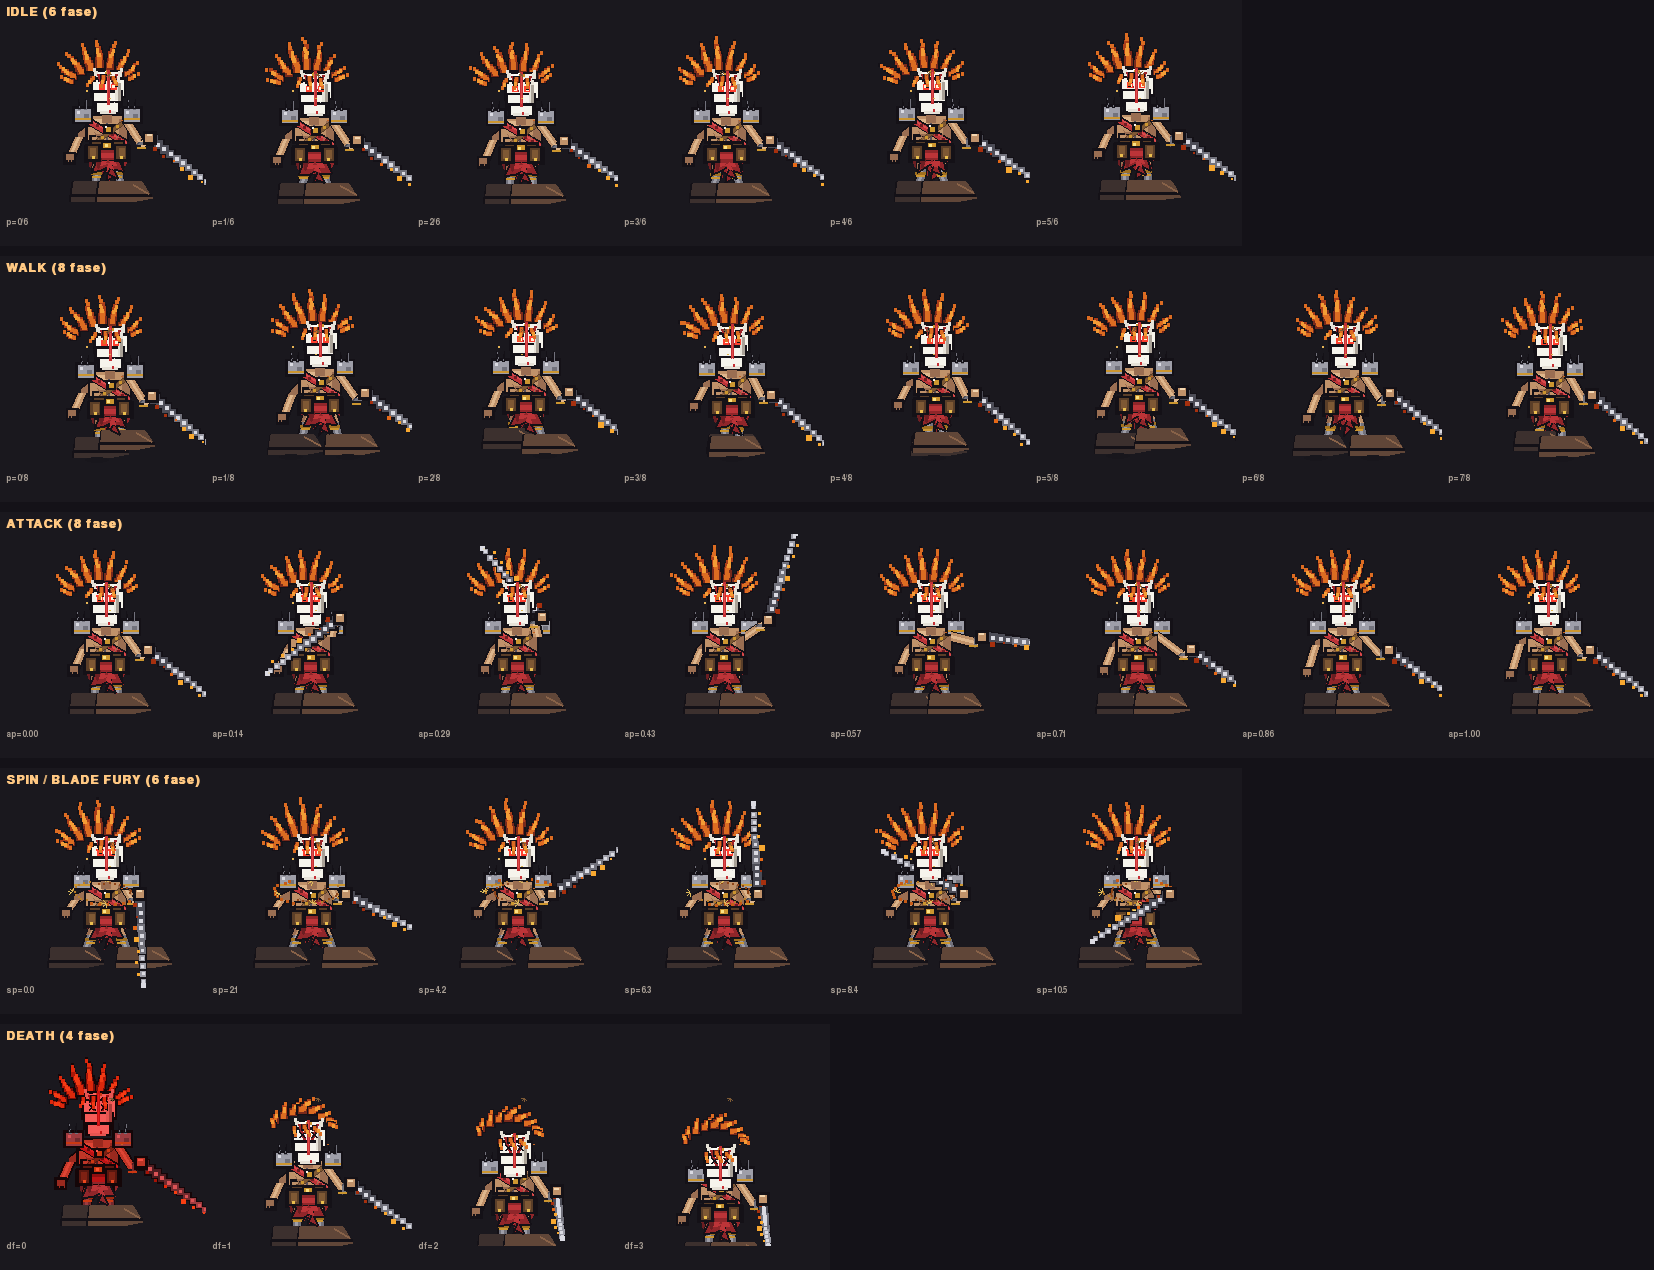
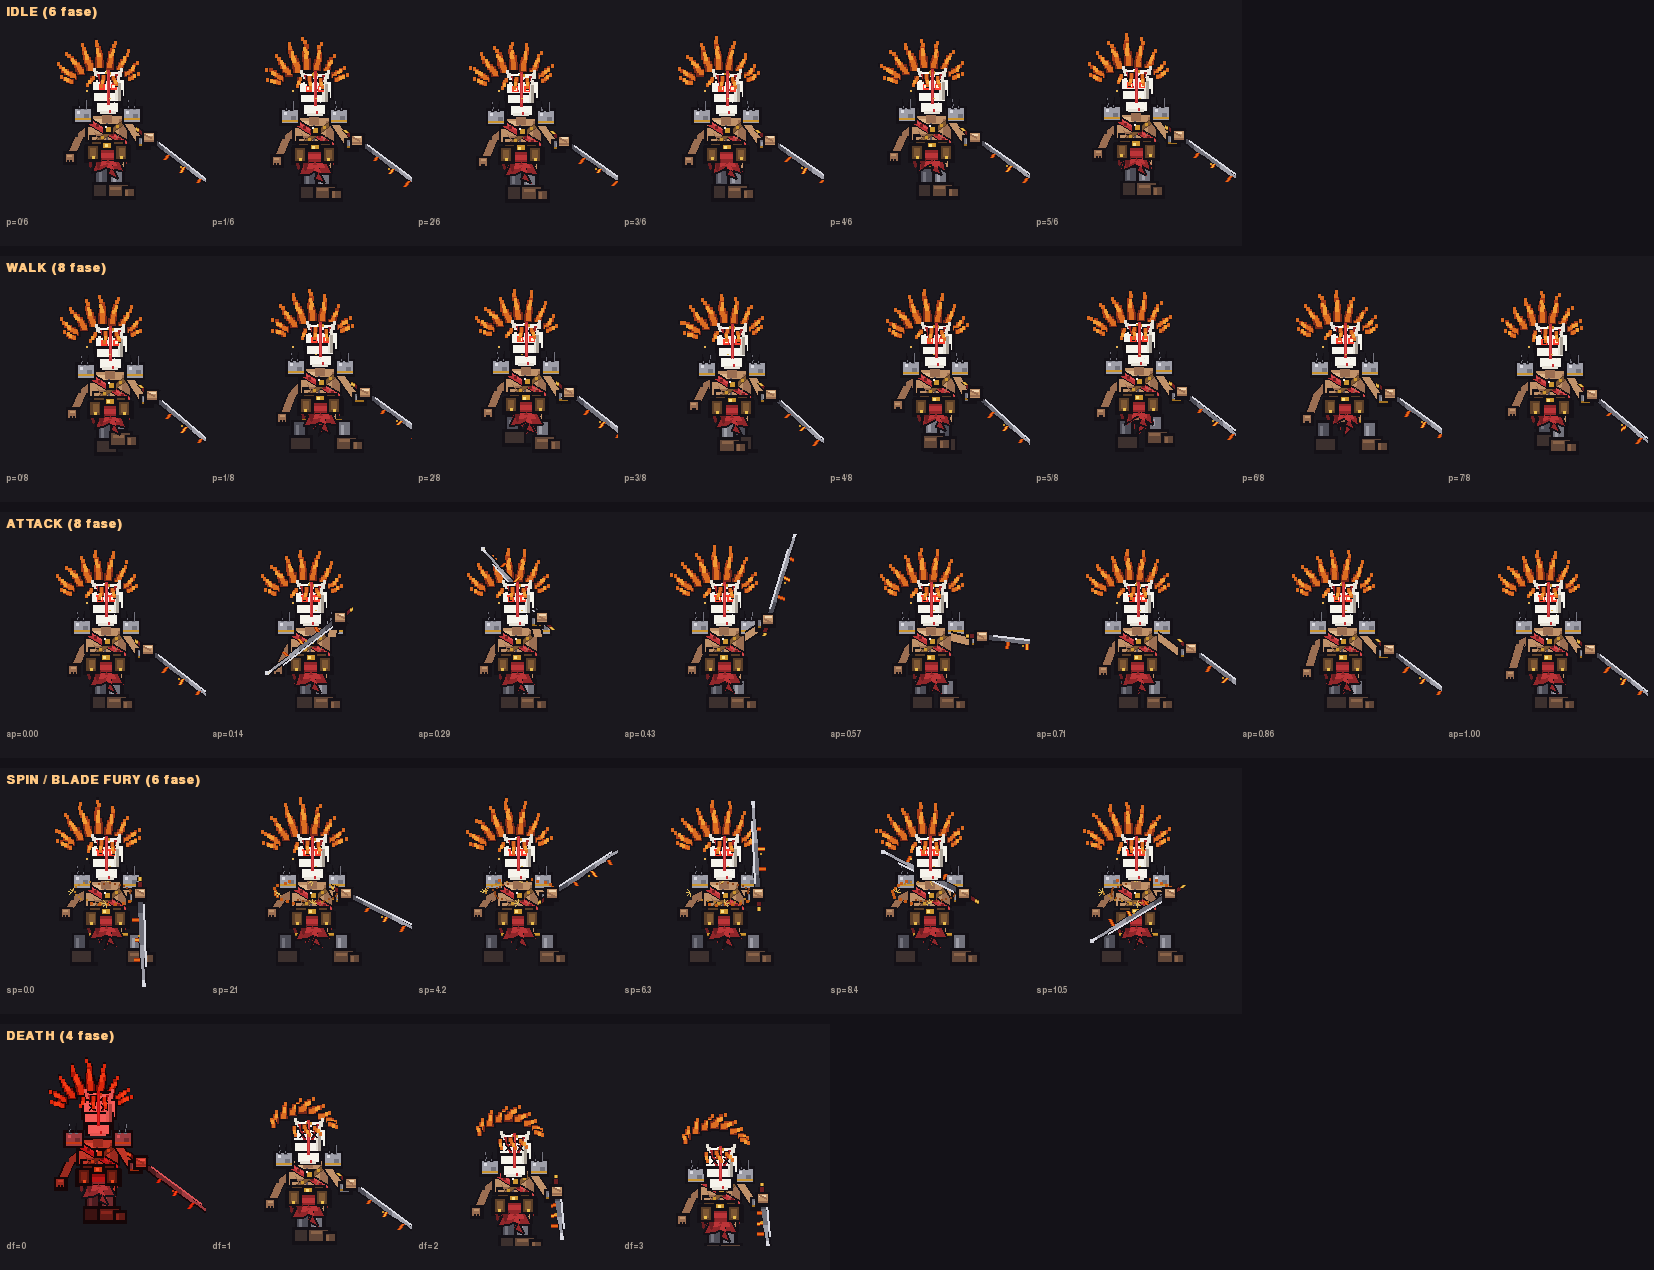
Grimjaw V1: kaki rect grid, pedang segmen + garda rotasi, render bersih

diff --git a/heroes/grimjaw_v1.py b/heroes/grimjaw_v1.py
@@ -33,6 +33,16 @@ Yang TIDAK berubah (identitas & gameplay Grimjaw):
 Gameplay, kontrol sentuh, generasi dunia, dan damage tetap milik Mystic
 Arena; modul ini hanya memiliki pose visual Grimjaw dan efek canvas
 fallback-nya. 100% PROSEDURAL - tidak ada PNG/JPG/GIF/sprite-sheet.
+
+Catatan pass kebersihan (review pemain):
+  * KAKI digambar sebagai rect grid (pola Kaizen): paha + greave baja +
+    boot dengan sol gelap - bukan lagi garis tebal/poligon bot raksasa.
+  * PEDANG digambar sebagai bilah segmen garis (pola katana Kaizen)
+    dengan garda emas tegak-lurus sumbu bilah (ikut rotasi), hilt wrap
+    merah + pommel emas, dan kepalan yang MENUTUP pangkal bilah sehingga
+    bilah selalu terlihat menyatu dengan tangan.
+  * Detail sub-piksel (garis 0.6px, titik api melayang) dibuang supaya
+    hasil downscale HD bersih dan mulus.
 """
 
 import math
@@ -916,19 +926,18 @@ def install(legacy_cls):
 
         @staticmethod
         def _draw_pixel_rear_arm(R, RO, line, elbow, hand, detail=False):
-            """Lengan belakang (tinju): bahu -> siku -> kepalan."""
+            """Lengan belakang (tinju): 2 pass bersih + kepalan."""
             P = GrimjawV1Renderer
             sh = (19.5, 21.0)
-            line(sh, elbow, P.C_OUTLINE, 5.0)
-            line(sh, elbow, P.C_SKIN_DARK, 3.6)
-            line(elbow, hand, P.C_OUTLINE, 4.6)
-            line(elbow, hand, P.C_SKIN_MID, 3.2)
-            line(elbow, hand, P.C_SKIN_LIGHT, 1.0)
-            RO(hand[0] - 1.5, hand[1] - 1.5, 3, 3, P.C_SKIN_DARK)
+            line(sh, elbow, P.C_OUTLINE, 4.8)
+            line(sh, elbow, P.C_SKIN_DARK, 3.4)
+            line(elbow, hand, P.C_OUTLINE, 4.4)
+            line(elbow, hand, P.C_SKIN_DARK, 3.0)
+            RO(hand[0] - 1.6, hand[1] - 1.6, 3.2, 3.2, P.C_SKIN_DARK)
+            R(hand[0] - 1.0, hand[1] - 1.2, 2.0, 0.8, P.C_SKIN_MID)
             if detail:
-                for kn in (-1, 0, 1):
-                    R(hand[0] + kn - 0.3, hand[1] + 0.8, 0.6, 0.9,
-                      P.C_OUTLINE)
+                for kn in (-0.9, 0.1):
+                    R(hand[0] + kn, hand[1] + 0.7, 0.7, 0.9, P.C_OUTLINE)
 
         @staticmethod
         def _draw_pixel_cloth_teeth(surface, point, spine_src, top_src,
@@ -984,48 +993,43 @@ def install(legacy_cls):
         @staticmethod
         def _draw_pixel_legs(surface, R, RO, point, line, front_step,
                              rear_step, front_lift, rear_lift, walking):
-            """Kaki: foot solver (menapak / terangkat), stance mekar."""
+            """Kaki: rect grid bersih (pola Kaizen) - paha, greave baja,
+            boot kokoh dengan sol gelap.  Tanpa garis spageti/poligon
+            raksasa supaya tetap tajam setelah downscale HD."""
             P = GrimjawV1Renderer
             for side, step, lift, dark in (
                     (-1, rear_step, rear_lift, True),
                     (1, front_step, front_lift, False)):
-                hip = (24.0 + side * 3.5, 32.5)
-                knee = (24.0 + side * 4.0 + step * 0.25, 38.5 - lift * 0.35)
-                ankle = (24.0 + side * 4.5 + step * 0.40, 43.5 - lift * 0.40)
-                fx = 24.0 + side * 5.0 + step
-                thigh = P.C_SKIN_DARK if dark else P.C_SKIN_MID
-                hi = P.C_SKIN_MID if dark else P.C_SKIN_LIGHT
-                line(hip, knee, P.C_OUTLINE, 4.6)
-                line(hip, knee, thigh, 3.4)
-                line(hip, knee, hi, 1.0)
-                line(knee, ankle, P.C_OUTLINE, 4.2)
-                line(knee, ankle, P.C_METAL_MID, 3.0)
-                line(knee, ankle, P.C_METAL_LIGHT, 1.0)
-                band = (knee[0], knee[1] + 1.5)
-                R(band[0] - 2.2, band[1] - 0.6, 4.4, 1.2, P.C_GOLD_DARK)
-                R(band[0] - 1.8, band[1] + 0.8, 3.6, 0.8, P.C_GOLD_MID)
+                bx = 22.0 if side < 0 else 27.5
+                off = int(round(step))
+                up = int(round(lift))
+                skin = P.C_SKIN_DARK if dark else P.C_SKIN_MID
+                # Paha: menempel di hip (tidak ikut melangkah).
+                RO(bx - 2.6, 32.5, 5.2, 5.5, skin)
+                R(bx - 1.8, 33.4, 1.5, 3.4,
+                  P.C_SKIN_MID if dark else P.C_SKIN_LIGHT)
+                # Lutut: band emas.
+                kx = bx - 2.0 + off * 0.5
+                R(kx, 37.3, 4.0, 1.3, P.C_GOLD_DARK)
+                R(kx + 0.6, 37.4, 2.8, 0.8, P.C_GOLD_MID)
+                # Greave baja (menyusut saat kaki terangkat = lutut menekuk).
+                gx0 = bx - 2.2 + off
+                gy0 = 38.4 - up * 0.9
+                RO(gx0, gy0, 4.4, 6.2 - up * 0.7,
+                   P.C_METAL_DARK if dark else P.C_METAL_MID)
+                R(gx0 + 0.8, gy0 + 1.0, 1.2, 3.8 - up * 0.5,
+                  P.C_METAL_MID if dark else P.C_METAL_LIGHT)
+                # Boot: badan + toe depan + sol gelap tebal.
+                fx0 = bx - 3.0 + off
+                fy0 = 44.4 - up
                 boot = P.C_BOOT_DARK if dark else P.C_BOOT_MID
-                bpts = [(fx - 8, 43 - lift), (fx + 8, 43 - lift),
-                        (fx + 10, 46 - lift), (fx + 12, 49.5 - lift),
-                        (fx + 6, 50.5 - lift), (fx - 9, 50.5 - lift)]
-                cpts = [point(*q) for q in bpts]
-                P._poly(surface, P.C_OUTLINE,
-                        [(x - 1.5, y) for x, y in cpts])
-                P._poly(surface, boot, cpts)
-                s0 = point(fx - 9, 48.5 - lift)
-                s1 = point(fx + 12, 48.5 - lift)
-                pygame.draw.line(surface, P.C_OUTLINE,
-                                 (int(s0[0]), int(s0[1])),
-                                 (int(s1[0]), int(s1[1])), 3)
-                t0 = point(fx + 5, 44 - lift)
-                t1 = point(fx + 11, 47.5 - lift)
-                pygame.draw.line(surface, P.C_BOOT_LIGHT,
-                                 (int(t0[0]), int(t0[1])),
-                                 (int(t1[0]), int(t1[1])), 2)
-                if lift == 0 and walking:
-                    gx, gy = point(fx, 52)
-                    P._ellipse(surface, (*P.C_OUTLINE, 70),
-                               (int(gx - 12), int(gy - 3), 24, 6))
+                RO(fx0, fy0, 7.4, 5.0, boot)
+                if not dark:
+                    RO(fx0 + 6.2, fy0 + 1.5, 3.4, 3.5, boot)
+                    R(fx0 + 6.4, fy0 + 1.8, 1.3, 2.6, P.C_BOOT_LIGHT)
+                R(fx0 + 0.6, fy0 + 0.6, 4.4, 1.0,
+                  P.C_BOOT_LIGHT if not dark else boot)
+                R(fx0 - 0.4, fy0 + 4.4, 10.4, 1.5, P.C_OUTLINE)
 
         @staticmethod
         def _draw_pixel_torso(R, RO, line, detail=False):
@@ -1036,8 +1040,6 @@ def install(legacy_cls):
             RO(18.0, 26.0, 12.0, 3.5, P.C_SKIN_MID)
             R(28.5, 19.0, 3.0, 9.0, P.C_SKIN_DARK)
             R(17.5, 19.0, 5.0, 2.0, P.C_SKIN_LIGHT)
-            line((19.0, 22.0), (22.0, 23.0), P.C_SKIN_DARK, 0.6)
-            line((28.5, 22.0), (25.5, 23.0), P.C_SKIN_DARK, 0.6)
             line((23.5, 19.0), (23.5, 28.0), P.C_MASK_LINE, 0.6)
             line((20.0, 25.0), (27.0, 25.0), P.C_SKIN_DARK, 0.6)
             # Sash diagonal (tali merah).
@@ -1099,28 +1101,31 @@ def install(legacy_cls):
 
         @staticmethod
         def _draw_pixel_front_arm(R, RO, line, elbow_src, grip_src):
-            """Lengan blade: bahu -> siku -> gagang + bracer baja."""
+            """Lengan blade: 2 pass bersih + bracer baja kotak."""
             P = GrimjawV1Renderer
             sh = (32.0, 21.0)
             line(sh, elbow_src, P.C_OUTLINE, 4.6)
-            line(sh, elbow_src, P.C_SKIN_MID, 3.4)
-            line(sh, elbow_src, P.C_SKIN_LIGHT, 1.0)
+            line(sh, elbow_src, P.C_SKIN_MID, 3.2)
             line(elbow_src, grip_src, P.C_OUTLINE, 4.2)
-            line(elbow_src, grip_src, P.C_SKIN_LIGHT, 3.0)
-            mx = elbow_src[0] * 0.7 + grip_src[0] * 0.3
-            my = elbow_src[1] * 0.7 + grip_src[1] * 0.3
-            line(elbow_src, (mx, my), P.C_METAL_DARK, 4.4)
-            line(elbow_src, (mx, my), P.C_METAL_MID, 3.2)
-            R(elbow_src[0] - 1.8, elbow_src[1] + 1.0, 3.6, 0.8,
-              P.C_GOLD_MID)
+            line(elbow_src, grip_src, P.C_SKIN_LIGHT, 2.8)
+            # Bracer: kotak baja di lengan bawah (bukan garis tipis).
+            mx = elbow_src[0] * 0.72 + grip_src[0] * 0.28
+            my = elbow_src[1] * 0.72 + grip_src[1] * 0.28
+            RO(mx - 1.8, my - 1.6, 3.6, 3.2, P.C_METAL_MID)
+            R(mx - 1.1, my - 1.1, 1.1, 2.4, P.C_METAL_LIGHT)
+            R(mx - 1.8, my + 0.6, 3.6, 0.8, P.C_GOLD_DARK)
 
         @staticmethod
-        def _draw_pixel_blade(surface, R, RO, point, grip_src, tip_src,
+        def _draw_pixel_blade(surface, R, RO, point, line, grip_src, tip_src,
                               phase, hot=False, detail=False):
-            """Flame blade pixel: tangga anti-sudut + gigi api.
+            """Flame blade: bilah baja bersegmen + garda emas terputar.
 
-            Gagang & ujung berasal dari geometri lokal renderer sehingga
-            trail lapisan hidup menempel PERSIS di bilah yang digambar.
+            Pola bilah mengikuti Kaizen V1 (segmen garis outline + isi)
+            supaya terbaca sebagai PEDANG, bukan tangga kotak.  Garda,
+            hilt, dan pommel dihitung pada sumbu bilah sehingga selalu
+            menempel di genggaman pada sudut apa pun.  Gagang & ujung
+            tetap berasal dari geometri lokal renderer sehingga trail
+            lapisan hidup menempel PERSIS di bilah yang digambar.
             """
             P = GrimjawV1Renderer
             gx, gy = grip_src
@@ -1129,49 +1134,78 @@ def install(legacy_cls):
             L = max(1e-6, math.hypot(dx, dy))
             ux, uy = dx / L, dy / L
             nx, ny = -uy, ux
-            steps = 12
-            for pas, wmul in ((0, 2.2), (1, 1.7), (2, 0.7)):
-                for i in range(steps):
-                    t = (i + 0.5) / steps
-                    taper = 1.0 - (i / steps) * 0.55
-                    cx = gx + ux * L * t
-                    cy = gy + uy * L * t
-                    half = 2.0 * wmul * 0.5 * taper + 0.15
-                    if pas == 0:
-                        col = P.C_OUTLINE
-                    elif pas == 1:
-                        col = (P.C_METAL_DARK if t < 0.3
-                               else P.C_METAL_MID if t < 0.7
-                               else P.C_METAL_LIGHT)
-                    else:
-                        col = P.C_METAL_SHINE
-                    R(cx - half, cy - half, half * 2, half * 2, col)
-            # Gigi api di tepi luar (flicker deterministik).
-            ramp = (P.C_FIRE_DARK, P.C_FIRE_MID, P.C_FIRE_LIGHT,
-                    P.C_FIRE_HOT if hot else P.C_FIRE_LIGHT)
-            for i in range(7):
-                t = 0.12 + 0.76 * i / 6
-                fl = 1.0 + math.sin(phase * 5.0 + i * 2.1) * 0.3
-                bx = gx + ux * L * t + nx * 1.9 * fl
-                by = gy + uy * L * t + ny * 1.9 * fl
-                sz = (0.9 + 0.9 * math.sin(i * 2.4 + 1.0) ** 2) * fl
-                col = ramp[min(len(ramp) - 1, int(t * len(ramp)))]
-                R(bx - sz * 0.5, by - sz * 0.5, sz, sz, col)
-            # Guard emas + wrap gagang + kepalan menutup gagang.
-            R(gx - 2.2, gy - 0.9, 4.4, 1.8, P.C_GOLD_DARK)
-            R(gx - 1.8, gy - 0.6, 3.6, 1.2, P.C_GOLD_LIGHT)
-            R(gx - 1.0, gy - 1.0, 2, 2, P.C_ARMOR_DARK)
-            RO(gx - 1.6, gy - 1.6, 3.2, 3.2, P.C_SKIN_MID)
-            R(gx - 1.0, gy - 1.4, 2, 0.8, P.C_SKIN_HIGH)
-            # Tip cap: titik terang di ujung bilah.
-            R(tx - 0.9, ty - 0.9, 1.8, 1.8,
+
+            # 1) Hilt: wrap merah + pommel emas di BELAKANG genggaman.
+            h0 = (gx - ux * 1.0, gy - uy * 1.0)
+            h1 = (gx - ux * 4.6, gy - uy * 4.6)
+            line(h0, h1, P.C_OUTLINE, 2.6)
+            line(h0, h1, P.C_RED_DARKEST, 1.6)
+            p0 = (gx - ux * 5.2, gy - uy * 5.2)
+            p1 = (gx - ux * 6.2, gy - uy * 6.2)
+            line(p0, p1, P.C_OUTLINE, 2.4)
+            line(p0, p1, P.C_GOLD_DARK, 1.4)
+            line(p0, p1, P.C_GOLD_LIGHT, 0.6)
+
+            # 2) Bilah: segmen outline + baja, gradasi gelap->terang ke
+            #    ujung, menirus pada 25% terakhir (kissaki).
+            N = 14
+            for i in range(N):
+                t0, t1 = i / N, (i + 1) / N
+                a = (gx + dx * t0, gy + dy * t0)
+                b = (gx + dx * t1, gy + dy * t1)
+                w_out = 3.0 if t1 < 0.75 else 2.4
+                line(a, b, P.C_OUTLINE, w_out)
+                steel = (P.C_METAL_DARK if t0 < 0.2 else
+                         P.C_METAL_MID if t0 < 0.55 else P.C_METAL_LIGHT)
+                line(a, b, steel, w_out - 1.2)
+            # Kilau sisi dalam bilah (edge shine) - satu garis tipis.
+            e0 = (gx + ux * L * 0.12 - nx * 1.0, gy + uy * L * 0.12 - ny * 1.0)
+            e1 = (gx + ux * L * 0.80 - nx * 1.0, gy + uy * L * 0.80 - ny * 1.0)
+            line(e0, e1, P.C_METAL_SHINE, 0.7)
+
+            # 3) Ujung: cap kissaki terang.
+            a = (tx - ux * 1.8, ty - uy * 1.8)
+            line(a, (tx, ty), P.C_OUTLINE, 2.4)
+            line(a, (tx, ty), P.C_METAL_SHINE, 1.0)
+            R(tx - 0.8, ty - 0.8, 1.6, 1.6,
               P.C_FIRE_HOT if hot else P.C_METAL_SHINE)
+
+            # 4) Garda emas: palang tegak-lurus sumbu bilah (ikut rotasi).
+            g0 = (gx + nx * 2.6, gy + ny * 2.6)
+            g1 = (gx - nx * 2.6, gy - ny * 2.6)
+            line(g0, g1, P.C_OUTLINE, 3.2)
+            line(g0, g1, P.C_GOLD_DARK, 2.0)
+            line((gx + nx * 0.2, gy + ny * 0.2),
+                 (gx + nx * 1.4, gy + ny * 1.4), P.C_GOLD_LIGHT, 0.8)
+
+            # 5) Gigi api rapi di tepi luar (identitas flame blade).
+            for i in range(3):
+                t = 0.28 + i * 0.22
+                fl = 1.0 + math.sin(phase * 4.2 + i * 2.0) * 0.35
+                b0 = (gx + ux * L * t + nx * 1.1, gy + uy * L * t + ny * 1.1)
+                b1 = (gx + ux * L * t + nx * (1.3 + 1.7 * fl),
+                      gy + uy * L * t + ny * (1.3 + 1.7 * fl))
+                line(b0, b1, P.C_FIRE_DARK, 1.4)
+                line(b0, b1,
+                     P.C_FIRE_LIGHT if i == 1 else P.C_FIRE_MID, 0.8)
             if hot:
+                line((gx + ux * L * 0.2 + nx * 1.0, gy + uy * L * 0.2 + ny * 1.0),
+                     (tx + nx * 0.8, ty + ny * 0.8), P.C_FIRE_LIGHT, 0.8)
                 hx, hy = point(tx, ty)
                 P._spark_star(surface, hx, hy, 9, P.C_FIRE_HOT, 200,
                               4, rot=phase)
             if detail:
-                pass
+                R(gx + ux * L * 0.45 + nx * 1.5, gy + uy * L * 0.45 + ny * 1.5,
+                  0.8, 0.8, P.C_GOLD_MID)
+
+            # 6) Kepalan MENUTUP pangkal bilah (digambar terakhir ->
+            #    bilah selalu nyambung ke tangan, tidak melayang).
+            RO(gx - 1.9, gy - 1.8, 3.8, 3.6, P.C_SKIN_MID)
+            R(gx - 1.3, gy - 1.5, 2.6, 0.9, P.C_SKIN_HIGH)
+            R(gx - 1.9, gy + 0.7, 3.8, 0.7, P.C_SKIN_DARK)
+            line((gx - 1.3 - ux * 0.6, gy - 1.0 - uy * 0.6),
+                 (gx + 1.3 - ux * 0.6, gy + 0.3 - uy * 0.6),
+                 P.C_SKIN_DARK, 0.9)
 
         @staticmethod
         def _draw_pixel_mask(R, RO, line, phase, anim_name, ward=False,
@@ -1369,7 +1403,7 @@ def install(legacy_cls):
             if anim_name == "spin":
                 P._draw_spin_flame_sweep(surface, origin[0], origin[1],
                                          facing, spin_phase, phase)
-            P._draw_pixel_blade(surface, R, RO, point, grip_s, tip_s,
+            P._draw_pixel_blade(surface, R, RO, point, line, grip_s, tip_s,
                                 phase, hot=bool(crit or omni),
                                 detail=detail)
             P._draw_pixel_mask(R2, RO2, line2, phase, anim_name, ward,
@@ -1390,9 +1424,6 @@ def install(legacy_cls):
                     ey = origin[1] - 55 - (i % 2) * 8
                     P._spark_star(surface, ex, ey, 4, P.C_HAIR_LIGHT,
                                   150, 4, rot=phase + i)
-            ex = origin[0] + facing * 2 + math.sin(phase * 1.3) * 4
-            P._spark_star(surface, ex, origin[1] - 58, 3, P.C_EMBER,
-                          110, 4, rot=phase * 0.7)
 
         @staticmethod
         def draw_grimjaw_sprite(surface, origin, flip_left, anim_name,
@@ -1437,9 +1468,6 @@ def install(legacy_cls):
                 crit=crit, omni=omni, detail=detail,
                 death_frame=death_frame)
             f = -1 if facing < 0 else 1
-            # Cluster api menjaga ramp flame tetap hidup after downscale.
-            P._rect(surface, (*P.C_HAIR_MID, 225),
-                    (cx + f * 15, cy - 12, 2, 1))
             if anim == "attack":
                 tip = P._blade_tip_local(float(phase), "attack",
                                          float(attack_progress))
